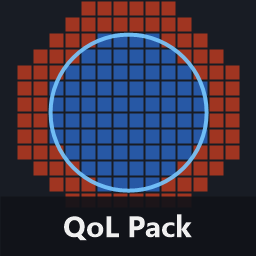
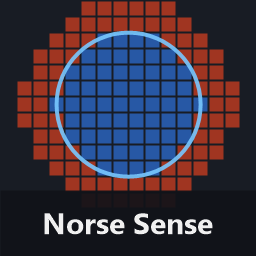
Rename QoL Pack to Norse Sense (0.8.0)
- New plugin name, ID (juissi.norsesense), namespace, DLL, project and
  solution names; release zips and install folder follow the new name
- README: requirements and installation, updating, uninstalling and
  troubleshooting sections
- Nexus BBCode description, refreshed icon, Thunderstore manifest with
  the correct BepInExPack dependency (5.4.2351)

diff --git a/NorseSense/Plugin.cs b/NorseSense/Plugin.cs
@@ -3,13 +3,13 @@ using BepInEx.Configuration;
 using HarmonyLib;
 using UnityEngine;
 
-namespace QolPack
+namespace NorseSense
 {
-    [BepInPlugin(Guid, "QoL Pack", ModInfo.Version)]
+    [BepInPlugin(Guid, "Norse Sense", ModInfo.Version)]
     [BepInProcess("valheim.exe")]
     public class Plugin : BaseUnityPlugin
     {
-        const string Guid = "juissi.qolpack";
+        const string Guid = "juissi.norsesense";
 
         // Spawn view
         internal static ConfigEntry<bool> ShowSpawnRadius;
@@ -187,14 +187,14 @@ namespace QolPack
                     new AcceptableValueRange<float>(0f, 10f)));
 
             AutoCompat = Config.Bind("Compatibility", "Auto-adjust for other mods", true,
-                "Turn off QoL Pack features that another installed mod already handles (e.g. fine rotation when Gizmo is installed).");
+                "Turn off Norse Sense features that another installed mod already handles (e.g. fine rotation when Gizmo is installed).");
             ShowCompatWarnings = Config.Bind("Compatibility", "Show warnings in game", true,
-                "Show a message when joining a world if another mod overlaps with QoL Pack. Details are always written to the BepInEx log.");
+                "Show a message when joining a world if another mod overlaps with Norse Sense. Details are always written to the BepInEx log.");
 
             BuildDistance.SettingChanged += (s, e) => PlayerTweaks.Apply();
             PickupRange.SettingChanged += (s, e) => PlayerTweaks.Apply();
 
-            _spawnViewObject = new GameObject("QolPack_SpawnView");
+            _spawnViewObject = new GameObject("NorseSense_SpawnView");
             DontDestroyOnLoad(_spawnViewObject);
             _spawnViewObject.AddComponent<SpawnView>();
             _spawnViewObject.AddComponent<MapOverlay>();

diff --git a/NorseSense/MapOverlay.cs b/NorseSense/MapOverlay.cs
@@ -2,7 +2,7 @@ using System.Collections;
 using UnityEngine;
 using UnityEngine.UI;
 
-namespace QolPack
+namespace NorseSense
 {
     // Paints the spawn view onto the minimap and the large map. Scanning is spread over several
     // frames because a 96 m radius is ~9000 cells of physics checks.
@@ -70,14 +70,14 @@ namespace QolPack
         RawImage CreateImage(RawImage mapImage)
         {
             // A masked container the size of the map image, so the overlay never draws past the map edge.
-            var mask = new GameObject("QolPack_SpawnMask", typeof(RectTransform), typeof(RectMask2D));
+            var mask = new GameObject("NorseSense_SpawnMask", typeof(RectTransform), typeof(RectMask2D));
             var maskRect = (RectTransform)mask.transform;
             maskRect.SetParent(mapImage.transform, false);
             maskRect.anchorMin = Vector2.zero;
             maskRect.anchorMax = Vector2.one;
             maskRect.offsetMin = maskRect.offsetMax = Vector2.zero;
 
-            var go = new GameObject("QolPack_SpawnOverlay", typeof(RectTransform), typeof(RawImage));
+            var go = new GameObject("NorseSense_SpawnOverlay", typeof(RectTransform), typeof(RawImage));
             go.transform.SetParent(maskRect, false);
             var image = go.GetComponent<RawImage>();
             image.raycastTarget = false; // never eat map clicks or pin placement
@@ -149,7 +149,7 @@ namespace QolPack
                 {
                     filterMode = FilterMode.Point,
                     wrapMode = TextureWrapMode.Clamp,
-                    name = "QolPack_SpawnMap"
+                    name = "NorseSense_SpawnMap"
                 };
                 if (_small != null) _small.texture = _texture;
                 if (_large != null) _large.texture = _texture;

diff --git a/NorseSense/SpawnView.cs b/NorseSense/SpawnView.cs
@@ -3,7 +3,7 @@ using HarmonyLib;
 using UnityEngine;
 using UnityEngine.Rendering;
 
-namespace QolPack
+namespace NorseSense
 {
     // Shows Valheim's natural spawn rules on the ground around the player (see SpawnRules),
     // plus base coverage rings, nests/spawners, raid status and a legend.
@@ -70,7 +70,7 @@ namespace QolPack
 
             var gridObject = new GameObject("Grid");
             gridObject.transform.SetParent(_viewRoot.transform, false);
-            _mesh = new Mesh { name = "QolPack_SpawnGrid", indexFormat = IndexFormat.UInt32 };
+            _mesh = new Mesh { name = "NorseSense_SpawnGrid", indexFormat = IndexFormat.UInt32 };
             _mesh.MarkDynamic();
             gridObject.AddComponent<MeshFilter>().sharedMesh = _mesh;
             var mr = gridObject.AddComponent<MeshRenderer>();

diff --git a/NorseSense/Compat.cs b/NorseSense/Compat.cs
@@ -6,7 +6,7 @@ using BepInEx.Bootstrap;
 using BepInEx.Logging;
 using HarmonyLib;
 
-namespace QolPack
+namespace NorseSense
 {
     // Finds other mods that touch the same game code and adjusts or warns, once all plugins have loaded.
     // Two sources: Harmony patch owners on the methods each feature relies on (works for any mod),
@@ -91,7 +91,7 @@ namespace QolPack
 
             if (Plugin.ShowCompatWarnings.Value && Player.m_localPlayer != null)
                 foreach (var note in notes)
-                    Player.m_localPlayer.Message(MessageHud.MessageType.TopLeft, "QoL Pack: " + note);
+                    Player.m_localPlayer.Message(MessageHud.MessageType.TopLeft, "Norse Sense: " + note);
         }
 
         static MethodBase Method(Type type, string name) => AccessTools.Method(type, name);

diff --git a/NorseSense/Cartography.cs b/NorseSense/Cartography.cs
@@ -3,7 +3,7 @@ using System.Collections.Generic;
 using HarmonyLib;
 using UnityEngine;
 
-namespace QolPack
+namespace NorseSense
 {
     internal enum MarkerImport { All, Filtered, None }
 
@@ -43,7 +43,7 @@ namespace QolPack
             catch (Exception e)
             {
                 // Unknown data layout (game update or another mod): fall back to vanilla import.
-                Debug.LogWarning($"[QoL Pack] Couldn't process cartography table markers, importing as vanilla: {e.Message}");
+                Debug.LogWarning($"[Norse Sense] Couldn't process cartography table markers, importing as vanilla: {e.Message}");
             }
         }
 

diff --git a/NorseSense/SmallTweaks.cs b/NorseSense/SmallTweaks.cs
@@ -2,7 +2,7 @@ using System.Linq;
 using HarmonyLib;
 using UnityEngine;
 
-namespace QolPack
+namespace NorseSense
 {
     // Portal hover lists exactly which carried items stop you from teleporting.
     [HarmonyPatch(typeof(TeleportWorld), nameof(TeleportWorld.GetHoverText))]

diff --git a/NorseSense/BuildHelpers.cs b/NorseSense/BuildHelpers.cs
@@ -3,7 +3,7 @@ using BepInEx;
 using HarmonyLib;
 using UnityEngine;
 
-namespace QolPack
+namespace NorseSense
 {
     // Fine rotation, rotation matching and a comfort preview while building.
     internal class BuildHelpers : MonoBehaviour

diff --git a/NorseSense/HullWarning.cs b/NorseSense/HullWarning.cs
@@ -1,6 +1,6 @@
 using UnityEngine;
 
-namespace QolPack
+namespace NorseSense
 {
     // While aboard a ship: a small hull readout, plus warnings when it takes damage or drops below set levels.
     internal class HullWarning : MonoBehaviour

diff --git a/NorseSense/SpawnRules.cs b/NorseSense/SpawnRules.cs
@@ -3,7 +3,7 @@ using System.Collections.Generic;
 using HarmonyLib;
 using UnityEngine;
 
-namespace QolPack
+namespace NorseSense
 {
     internal enum SpawnCell : byte { Unknown, Blocked, Protected, Steep, Exposed }
 

diff --git a/NorseSense/PlayerTweaks.cs b/NorseSense/PlayerTweaks.cs
@@ -1,4 +1,4 @@
-namespace QolPack
+namespace NorseSense
 {
     // Config value 0 means "leave vanilla", so the original values are remembered per player instance.
     static class PlayerTweaks

diff --git a/NorseSense/MarkerManager.cs b/NorseSense/MarkerManager.cs
@@ -5,7 +5,7 @@ using BepInEx;
 using HarmonyLib;
 using UnityEngine;
 
-namespace QolPack
+namespace NorseSense
 {
     internal enum EditPermission { BuilderOrWard, AdminsOnly }
 

diff --git a/NorseSense/TableData.cs b/NorseSense/TableData.cs
@@ -3,7 +3,7 @@ using System.Collections.Generic;
 using HarmonyLib;
 using UnityEngine;
 
-namespace QolPack
+namespace NorseSense
 {
     internal class TableMarker
     {
